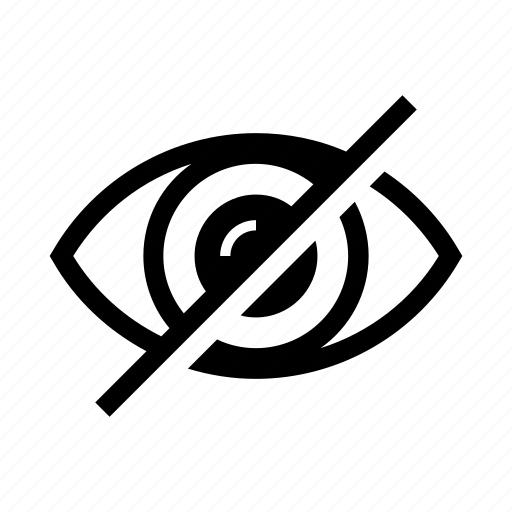
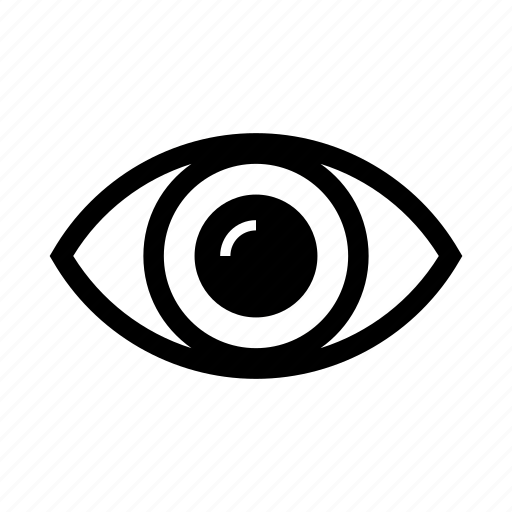
master gui fixed

Changed region(s): [[0.1875, 0.1875, 0.8125, 0.8125]]

diff --git a/gui.py b/gui.py
@@ -14,29 +14,35 @@ class MasterPromptWindow(QWidget):
 	def __init__(self):
 		super().__init__()
 		self.setWindowTitle("Authentication")
-		self.setMinimumSize(QSize(650, 450))
+		self.setMinimumSize(QSize(650, 400))
+
+		self.master_handler = MasterManip()
 
 		self.hidden_icon = QIcon("icons/hidden.png")
 		self.shown_icon = QIcon("icons/shown.png")
 
-		self.master_handler = MasterManip()
 		self.label = QLabel(self)
 		self.entry = QLineEdit(self)
 		self.entry.setEchoMode(QLineEdit.Password)
+
 		self.visibility_button = QPushButton(self)
-		self.visibility_button.setFixedSize(25, 25)
-		self.visibility_button.setIcon(self.shown_icon)
+		self.visibility_button.setIcon(self.hidden_icon)
 		self.visibility_button.setIconSize(QSize(19, 19))
+		self.visibility_button.setFixedSize(25, 25)
 		self.visibility_button.clicked.connect(self.toggle_visibility)
 
 		auth_button = QPushButton("Auth", self)
 		auth_button.clicked.connect(self.auth_user)
 
+		exit_button = QPushButton("Exit", self)
+		exit_button.clicked.connect(QApplication.quit)
+
 		master_grid = QGridLayout()
-		master_grid.addWidget(self.label, 0, 0, 1, 1)
-		master_grid.addWidget(self.entry, 1, 0, 1, 1)
-		master_grid.addWidget(self.visibility_button, 1, 1)
-		master_grid.addWidget(auth_button, 2, 0, 1, 1)
+		master_grid.addWidget(self.label, 0, 0)
+		master_grid.addWidget(self.entry, 1, 0, 1, 2)
+		master_grid.addWidget(self.visibility_button, 1, 2)
+		master_grid.addWidget(auth_button, 2, 0)
+		master_grid.addWidget(exit_button, 2, 1)
 		master_grid.setAlignment(Qt.AlignCenter)
 
 		self.setLayout(master_grid)
@@ -64,8 +70,7 @@ class MasterPromptWindow(QWidget):
 			self.entry.setEchoMode(QLineEdit.Normal)
 		else:
 			self.visibility_button.setIcon(self.hidden_icon)
-			self.entry.setEchoMode(QLineEdit.Password)
-		self.visibility_button.update()	
+			self.entry.setEchoMode(QLineEdit.Password)	
 
 	def config_label(self):
 		if os.path.exists(f"{DB_FOLDER}/{DB_MASTER}"):
@@ -181,6 +186,9 @@ class AddDataWindow(QWidget):
 		self.parent = parent
 		self.storage_handler = obj
 
+		self.hidden_icon = QIcon("icons/hidden.png")
+		self.shown_icon = QIcon("icons/shown.png")
+
 		self.title_label = QLabel("Title:", self)
 		self.title_entry = QLineEdit(self)
 
@@ -196,10 +204,10 @@ class AddDataWindow(QWidget):
 		self.repeat_password_entry.setEchoMode(QLineEdit.Password)
 
 		self.generate_password_button = QPushButton("Generate", self)
-		self.visibility_button = QPushButton("", self)
-		self.visibility_button.setFixedSize(25, 25)
-		self.visibility_button.setIcon(QIcon("shown.png"))
+		self.visibility_button = QPushButton(self)
+		self.visibility_button.setIcon(self.hidden_icon)
 		self.visibility_button.setIconSize(QSize(19, 19))
+		self.visibility_button.setFixedSize(25, 25)
 		self.spin_box = QSpinBox(self)
 		self.spin_box.setRange(1, 64)
 		self.spin_box.setValue(16)
@@ -278,11 +286,11 @@ class AddDataWindow(QWidget):
 		and self.repeat_password_entry.echoMode() == QLineEdit.Password:
 			self.password_entry.setEchoMode(QLineEdit.Normal)
 			self.repeat_password_entry.setEchoMode(QLineEdit.Normal)
-			self.visibility_button.setIcon(QIcon("shown.png"))
+			self.visibility_button.setIcon(self.shown_icon)
 		else:
 			self.password_entry.setEchoMode(QLineEdit.Password)
 			self.repeat_password_entry.setEchoMode(QLineEdit.Password)
-			self.visibility_button.setIcon(QIcon("hidden.png"))
+			self.visibility_button.setIcon(self.hidden_icon)
 
 	@staticmethod
 	def generate_password(length):
